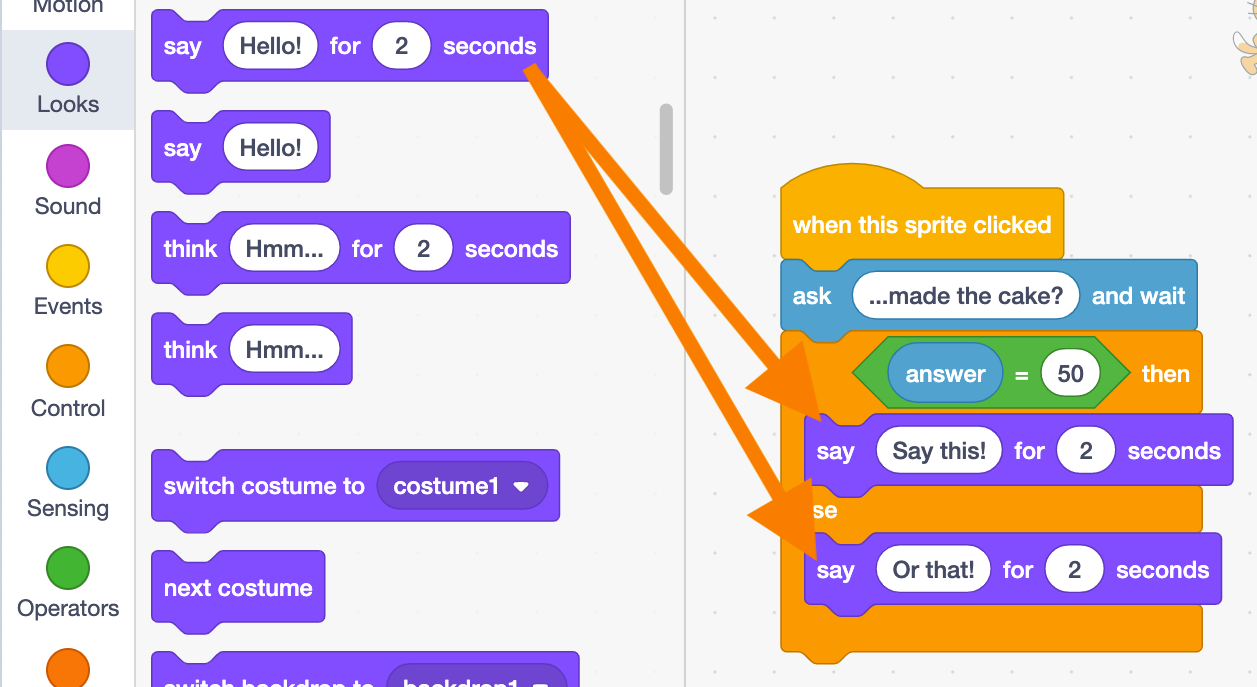
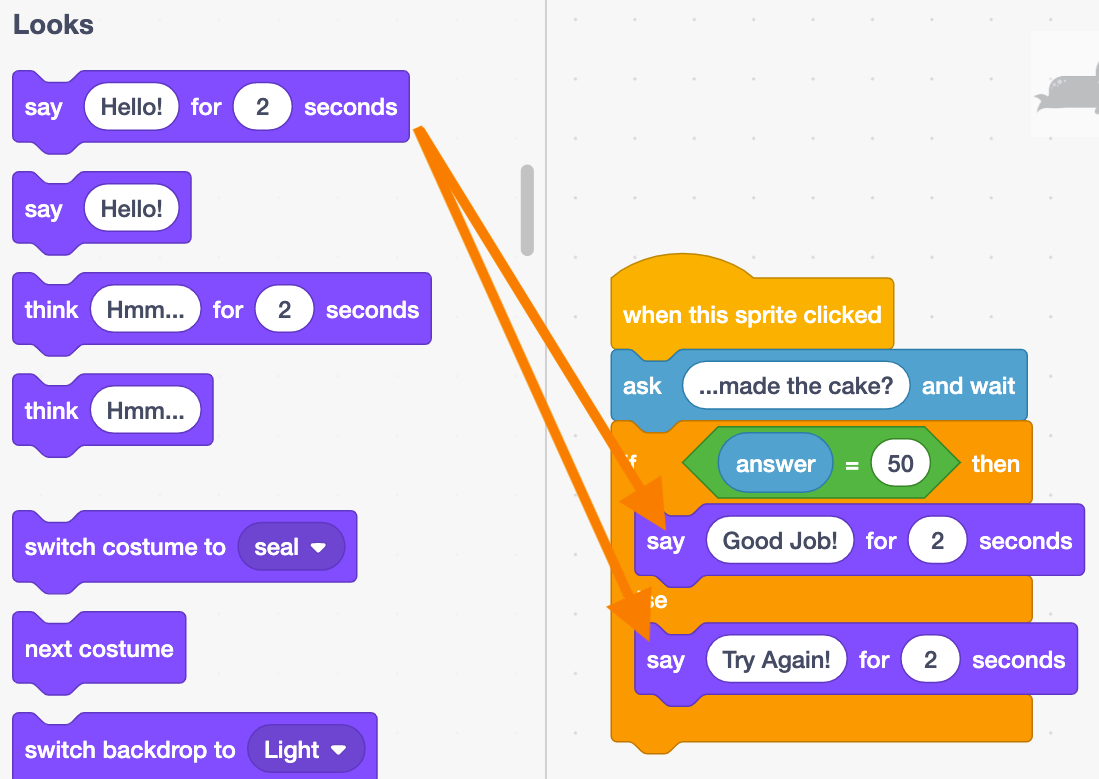
updates

diff --git a/PM/Scratch 2.md b/PM/Scratch 2.md
@@ -1,2 +1,92 @@
+## Scratch Quiz
 
-# Scratch 2
+**Recommended grade level:**: grades 3 - 9
+
+**Recommended duration:**: 30 min.
+
+**Learning Objectives:**
+* Familiarity with the Scratch environment
+* Introduction to Logic programming 
+
+**Materials:**: Scratch 3.0
+
+**Warm-up**
+* Create a few examples of closed questions you could ask in a quiz - the questions should have only 2 options for the answer.
+
+**Examples** 
+> Is Sydney the capital of Australia? yes/no
+
+> Is 8x3 = 25? yes/no
+
+> Who/Whom made that cake?
+
+## Remix
+Click on this link to see an example of a project you can remix to make a similar project on the subject of your choice [LINK]()
+
+## Build from Scratch
+
+* Go to: [SCRATCH](https://scratch.mit.edu/) click on start creating
+
+<img src="./assets/images/pm-sc1/1.png" width="100%">
+
+* **Make your sprite talk** - Click on the **Events**  category in the block palette and drag the **when this sprite is clicked** block into the coding area
+
+<img src="./assets/images/pm-sc2/2.png" width="100%">
+
+* **Ask a question:** From the **Sensing** section, drag the **Ask ‘What is your name’ and wait** block to the coding area and add it to your code.
+
+<img src="./assets/images/pm-sc2/3.png" width="100%">
+
+* **Add your question** - Double click in the white bubble to select the text and write your question.
+
+* From the **Control** section, drag **if/then/else** block and add it to your code.
+
+**Check the answer:**  From the **Operator** section, drag the hexagonal **comparison block with an equal sign** into the coding area and place it inside the blank spot between the “if” and the “then” of the **if/then/else** block.
+
+<img src="./assets/images/pm-sc2/4.png" width="100%">
+
+* From the **Sensing** section, drag the **answer** block and insert it in on the left-hand side of the comparison block.
+
+<img src="./assets/images/pm-sc2/5.png" width="100%">
+
+* In the green **comparison** block, on the right-hand side of the equal sign, write one of the two possible answers.
+* From the **Looks** section, drag two **say “Hello!” for 2 seconds** blocks into the coding area and place them between the branches of the **if/then/else** block. 
+
+<img src="./assets/images/pm-sc2/6.png" width="100%">
+
+* Change the text in the **say** block according to the comparison, for example, “Good job” for the correct answer and “Try again!” for the incorrect answer
+
+* You are done! Test your code by clicking on your sprite 
+
+
+## Extension
+
+**Add more questions** to your quiz by connecting the same sequence of blocks to your code and changing the question and the associated answer to compare to.
+
+**Change the sprite’s appearance** when the answer is correct.
+
+From the **Look** section, drag the **switch to “costume1"** block and add it to your code.
+
+
+From the Look section, drag a block **switch to “costume1”** in the bracket of the **if/then/else block** corresponding to the correct answer. 
+	
+<img src="./assets/images/pm-sc2/7.png" width="100%">
+
+* Select your **costume2** variable in the drop-down list by clicking on the **arrow on the side.**
+
+
+* **Keeping score** - From the **Variables** section, click the **Make a Variable** button and name the variable score.
+
+<img src="./assets/images/pm-sc2/8.png" width="100%">
+
+* Drag the **set my variable to 0** block and attach it to the **when my sprite is clicked** block.
+
+<img src="./assets/images/pm-sc2/9.png" width="100%">
+
+* Select your **score** variable in the drop-down list by clicking on the **arrow** on the right of the variable.
+
+* From the **variables** section, drag **2** blocks **change “my variable” by “1”** to the coding area. Add one **change “my variable” by “1”** to each of the brackets of the **block if/then/else**. Select your **score** variable in the drop-down list by clicking on the **arrow** on the right of **“my variable”.**
+
+* Update **change “my score” by “1”** score value to **“1”** for the correct answer and to “-1” for the incorrect answer.
+
+<img src="./assets/images/pm-sc2/10.png" width="100%">

diff --git a/PM/Scratch 3.md b/PM/Scratch 3.md
@@ -1,2 +1,92 @@
+## Scratch Quiz
 
-# Scratch 3
+**Recommended grade level:**: grades 3 - 9
+
+**Recommended duration:**: 30 min.
+
+**Learning Objectives:**
+* Familiarity with the Scratch environment
+* Introduction to Logic programming 
+
+**Materials:**: Scratch 3.0
+
+**Warm-up**
+* Create a few examples of closed questions you could ask in a quiz - the questions should have only 2 options for the answer.
+
+**Examples** 
+> Is Sydney the capital of Australia? yes/no
+
+> Is 8x3 = 25? yes/no
+
+> Who/Whom made that cake?
+
+## Remix
+Click on this link to see an example of a project you can remix to make a similar project on the subject of your choice [LINK]()
+
+## Build from Scratch
+
+* Go to: [SCRATCH](https://scratch.mit.edu/) click on start creating
+
+<img src="./assets/images/pm-sc1/1.png" width="100%">
+
+* **Make your sprite talk** - Click on the **Events**  category in the block palette and drag the **when this sprite is clicked** block into the coding area
+
+<img src="./assets/images/pm-sc2/2.png" width="100%">
+
+* **Ask a question:** From the **Sensing** section, drag the **Ask ‘What is your name’ and wait** block to the coding area and add it to your code.
+
+<img src="./assets/images/pm-sc2/3.png" width="100%">
+
+* **Add your question** - Double click in the white bubble to select the text and write your question.
+
+* From the **Control** section, drag **if/then/else** block and add it to your code.
+
+**Check the answer:**  From the **Operator** section, drag the hexagonal **comparison block with an equal sign** into the coding area and place it inside the blank spot between the “if” and the “then” of the **if/then/else** block.
+
+<img src="./assets/images/pm-sc2/4.png" width="100%">
+
+* From the **Sensing** section, drag the **answer** block and insert it in on the left-hand side of the comparison block.
+
+<img src="./assets/images/pm-sc2/5.png" width="100%">
+
+* In the green **comparison** block, on the right-hand side of the equal sign, write one of the two possible answers.
+* From the **Looks** section, drag two **say “Hello!” for 2 seconds** blocks into the coding area and place them between the branches of the **if/then/else** block. 
+
+<img src="./assets/images/pm-sc2/6.png" width="100%">
+
+* Change the text in the **say** block according to the comparison, for example, “Good job” for the correct answer and “Try again!” for the incorrect answer
+
+* You are done! Test your code by clicking on your sprite 
+
+
+## Extension
+
+**Add more questions** to your quiz by connecting the same sequence of blocks to your code and changing the question and the associated answer to compare to.
+
+**Change the sprite’s appearance** when the answer is correct.
+
+From the **Look** section, drag the **switch to “costume1"** block and add it to your code.
+
+
+From the Look section, drag a block **switch to “costume1”** in the bracket of the **if/then/else block** corresponding to the correct answer. 
+	
+<img src="./assets/images/pm-sc2/7.png" width="100%">
+
+* Select your **costume2** variable in the drop-down list by clicking on the **arrow on the side.**
+
+
+* **Keeping score** - From the **Variables** section, click the **Make a Variable** button and name the variable score.
+
+<img src="./assets/images/pm-sc2/8.png" width="100%">
+
+* Drag the **set my variable to 0** block and attach it to the **when my sprite is clicked** block.
+
+<img src="./assets/images/pm-sc2/9.png" width="100%">
+
+* Select your **score** variable in the drop-down list by clicking on the **arrow** on the right of the variable.
+
+* From the **variables** section, drag **2** blocks **change “my variable” by “1”** to the coding area. Add one **change “my variable” by “1”** to each of the brackets of the **block if/then/else**. Select your **score** variable in the drop-down list by clicking on the **arrow** on the right of **“my variable”.**
+
+* Update **change “my score” by “1”** score value to **“1”** for the correct answer and to “-1” for the incorrect answer.
+
+<img src="./assets/images/pm-sc2/10.png" width="100%">

diff --git a/PM/Scratch 1.md b/PM/Scratch 1.md
@@ -1,4 +1,4 @@
-## Scratch presentation
+## Scratch Presentation
 
 **Recommended grade level:**: grades 3 - 9
 

diff --git a/PM/AI 1.md b/PM/AI 1.md
@@ -1,4 +1,4 @@
-# AI DIGITAL CITIZENSHIP
+# AI Digital Citizenship
 
 > Extra Activities
 

diff --git a/PM/AI 2.md b/PM/AI 2.md
@@ -1,4 +1,4 @@
-# AI LITERATURE
+# AI Literature
 
 > Extra Activities
 

diff --git a/PM/AI 3.md b/PM/AI 3.md
@@ -1,4 +1,4 @@
-# AI HANDS-ON
+# AI Hands-On
 
 > Learning Objectives
 
